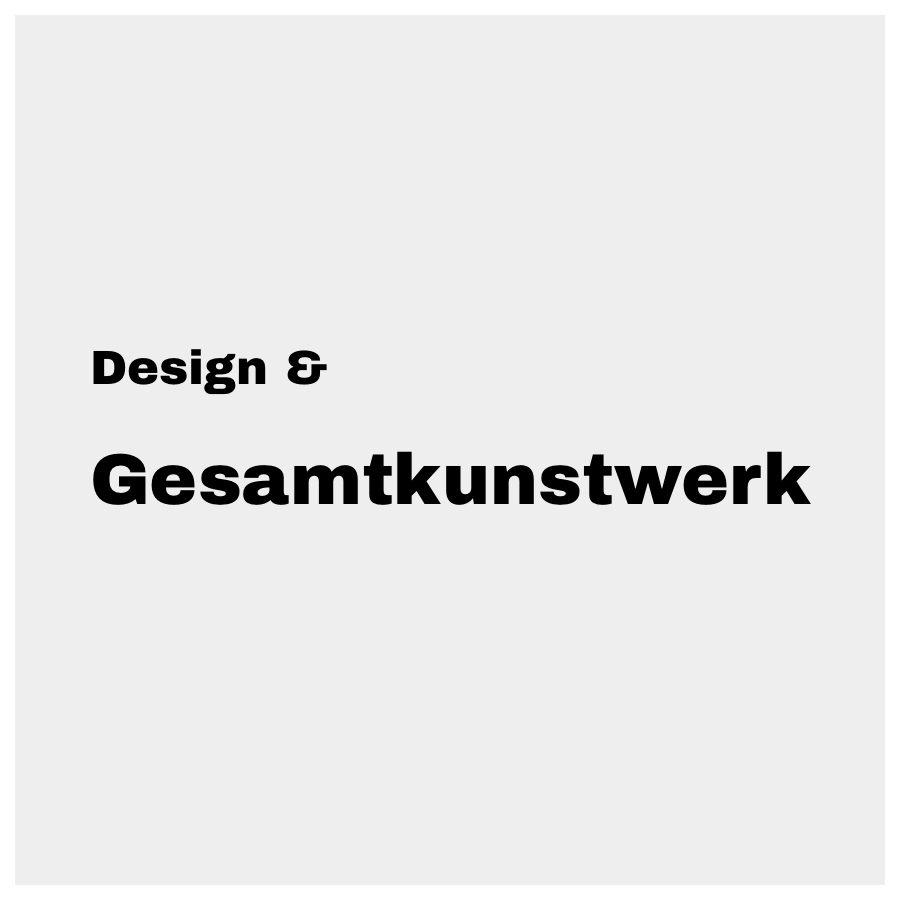
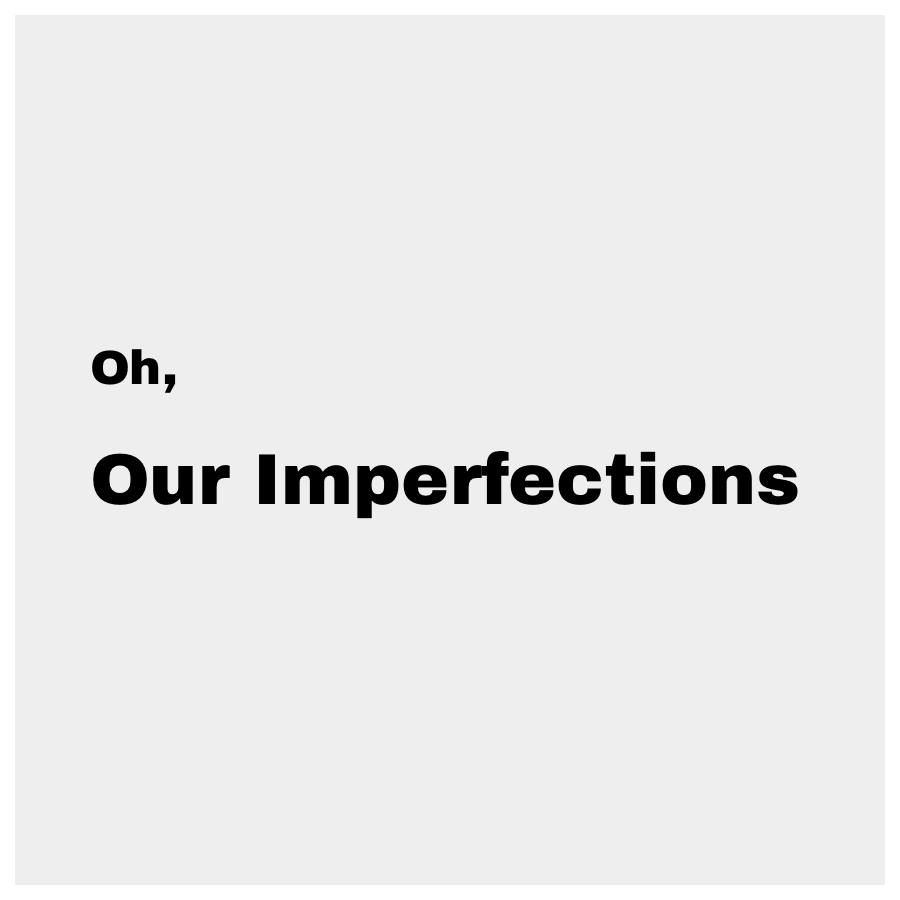
Updated the third blog page.

Changed region(s): [[0.1244, 0.4978, 0.9022, 0.5911], [0.0933, 0.3733, 0.3733, 0.4356]]

diff --git a/blog-ooi.html b/blog-ooi.html
@@ -1,0 +1,145 @@
+<!DOCTYPE html>
+<html lang="en">
+
+<head>
+    <meta charset="utf-8">
+    <meta http-equiv="X-UA-Compatible" content="IE=edge">
+    <meta name="viewport" content="width=device-width, initial-scale=1">
+    <!-- The above 3 meta tags *must* come first in the head; any other head content must come *after* these tags -->
+    <title>Blog | Ooi series</title>
+    <link rel="icon" href="img/fav.png" type="image/x-icon">
+
+    <!-- Bootstrap -->
+    <link href="css/bootstrap.min.css" rel="stylesheet">
+    <link href="ionicons/css/ionicons.min.css" rel="stylesheet">
+
+    <!-- main css -->
+    <link href="css/style.css" rel="stylesheet">
+
+    <!-- modernizr -->
+    <script src="js/modernizr.js"></script>
+
+
+</head>
+
+
+<body onload=pwprotect()>
+
+    <!-- Preloader -->
+    <div id="preloader">
+        <div class="pre-container">
+            <div class="spinner">
+                <div class="double-bounce1"></div>
+                <div class="double-bounce2"></div>
+            </div>
+        </div>
+    </div>
+    <!-- end Preloader -->
+
+    <div class="container-fluid">
+
+        <!-- box header -->
+        <header class="box-header">
+            <div class="box-logo">
+                <a href="index.html"><img src="img/icon-photo.png" width="100" alt="Logo"></a>
+            </div>
+        </header>
+        <!-- end box header -->
+    
+    </div>
+    
+    <!-- main-container -->
+
+    <div class="container no-padding main-container">  
+
+        <div class="col-lg-9 col-lg-offset-1 col-md-10 col-sm-11 col-xs-12">
+
+            <!-- top section  -->
+            <section>
+                <h2>Oh, our imperfections.</h2>
+                <h5>Pimples, tummy, wrinkles and farts. <br> What made us human made us special.</h5>
+            </section>
+
+            <!-- content section -->
+            <section>
+                <div class="row page-info">
+
+                    <div class="h-80"></div>
+
+                    <div class="col-lg-8 col-md-8 col-sm-12 col-xs-12">
+                        <div class="page-content">
+                            <p>There were multiple things that triggered something in me these few days. <br>
+                                1. I was listening to a podcast about how girls went through extreme diets and had to join fitness physique competitions to keep themselves on track. However, they were feeling miserable over the huge amount of cardio they needed to do; <br>
+                                2. A mutual friend in a group chat was bothered by people's comments about her strong and lean legs being "too big", and was trying to run if off by clocking extra KMs; <br>
+                                3. A video about girls chatting about their experiences with eating disorders and their state of mind now while recovering; <br>
+                                4. Another girl on a podcast mentioned her embarrassment to show any part of her body, tummy and legs, and worried about people judging her body "imperfections" as a coach;<br>
+                                5. Some old photos on my phone —></p>
+                        </div>
+                        <div class="h-30"></div>
+                    </div>
+                </div>            
+            </section>
+            
+           <!-- content sub section 1-->
+            <section>
+                <div class="row page-info">
+                    <div class="col-lg-8 col-md-8 col-sm-12 col-xs-12">
+                        <h4>Why do these matter? Why do these matter to me, you or anyone? </h4>
+                    </div>
+                    <div class="col-lg-8 col-md-8 col-sm-12 col-xs-12">
+                        <div class="page-content">
+                            <p>1. I've been through extreme diets before, just to lose another one or two extra pounds, or for the number on the weighing machine to look good / "optimal" / smaller. <br>
+                            2. While I used to be slightly underweight and slim, i still received comments about my legs being too strong, and i kept believing that, and kept trying to run more to burn my genes off. <br>
+                            3. The extreme diet in 1 & the over exercising in 2 resulted in emotional instability & binge eating disorder over couple of years. Without being too specific, my heaviest weight (2019) was 153% heavier than my slimmest (2011) (at around the current height, i think i grew 1cm taller over the past few years). My eating disorder remains unstable and on & off; and my weight now fluctuates slightly below the heaviest mark. <br>
+                            4. Over the years i started training in the gym, lifting, did couple of spartans races, long distance runs, started doing CrossFit, got a PT cert, wellness cert, CF level 1 cert, part timed as group trainer... My fitness routine remained active, various & regular; I am stronger (well, heavier too) than some of my guy friends, and i am proud of what my body is capable of after exercises. However. However. The 150% weight gain is not pure muscles. I have a rather noticeable bulge on my tummy that I constantly trying to hide. My thighs are thicker than usual. The fat layers on my back start to fight each other when i try to back bend or stretch... and those are the things my focus is on, most of the times. And i am, till this day, embarrassed to show my body with the fear of being judged by people, especially as a coach / fitness manic. <br>
+                            5. And i was browsing through some old photos on my phone. (initially with a brief thought of whether i should update one of the social media profile pic). And i stumbled upon a sudden realization.</p>
+                            <p>
+                                No its not a photo of the "chopstick" me in year 2011. Not a photo of the one-time noticeable abs nor a triumph with my lean body after races. <br>
+
+                                It was photos of my last summer's trip. A summer camp to the U.S. (I've graduated for 4 years now. This was a passion trip. Maybe I'll write about this in the future.) It was couple of photos of me being with my new friends there. <br>
+
+                                I think partially because it was a superb and remarkable experience that i would never forget about. While looking at the photos, I realized that there's a feeling of appreciation, joy and fulfillment in my heart that start to rise; there's also a tiny trace of bitterness that the happy time has past. I looked at my face in those photos, and i thought "hell i looked happy". <br>
+
+                                And so I stumbled upon this sudden realization, that truly, the "perfect weight/physique" doesn't exist; that i have been constantly pursuing something and being so obsessed with it that the mind and body go to the extremes. Yet no matter how small or "perfect" we think the weight should be, it does not, has never and will never bring us the level of joy as a fulfilling experience such as exchanging ideas with a bunch of smart friends, winning a small competition with like-minded & -bodied strong people, or completing an ultra trail, Spartan Trifecta, or an unprepared Marathon. <br>
+
+                                The pursuit and the obsession is meaningless. Judging people by the number on the scale, or even the number by their birth years, is also crude, ignorant and meaningless. Does a higher IQ makes someone a better person? Does one being younger, older, heavier, lighter has anything to do with one as a person? Those are just tags on our packaging. Does the number of grams on a chips package change the flavor or nutritional content of that chip? Guess not. We're smart enough to not judge a bag of chips by its packaging, and yet we're so held up on what's lying on the surface of ourselves. <br>
+
+                                Its the flavor that matters. The unique experiences, different perspectives, willingness of taking control of what one enjoys to do, and the courage to pursue what one loves. We feel the spark of joy from those moments in life, moments that trespasses weight, gender, age, and all the stereotypical tags this society put on us. And we should learn to not let the imperfections affect who we are and what brings us true happiness. Learn to love the imperfections. This is something I will, and hopefully you will too, practice more and more in our lives.<br>
+
+
+                            </p>
+                        </div>
+                        <div class="h-30"></div>
+                    </div>
+                </div>
+            </section>
+
+        </div>
+ 
+
+    </div>
+    <!-- end main-container -->
+
+
+    <!-- back to top -->
+    <a href="#0" class="cd-top"><i class="ion-android-arrow-up"></i></a>
+    <!-- end back to top -->
+
+
+
+
+    <!-- jQuery -->
+    <script src="js/jquery-2.1.1.js"></script>
+    <!--  plugins -->
+    <script src="js/bootstrap.min.js"></script>
+    <script src="js/menu.js"></script>
+    <script src="js/animated-headline.js"></script>
+    <script src="js/isotope.pkgd.min.js"></script>
+
+
+    <!--  custom script -->
+    <script src="js/custom.js"></script>
+
+</body>
+
+</html>

diff --git a/index.html b/index.html
@@ -6,7 +6,7 @@
     <meta http-equiv="X-UA-Compatible" content="IE=edge">
     <meta name="viewport" content="width=device-width, initial-scale=1">
     <!-- The above 3 meta tags *must* come first in the head; any other head content must come *after* these tags -->
-    <title>Yiping Xia</title>
+    <title>Eva Xia</title>
     <link rel="icon" href="img/fav.png" type="image/x-icon">
 
     <!-- Bootstrap -->
@@ -216,12 +216,12 @@
 
                 <!-- single work -->
                 <div class="col-md-4 col-sm-6">
-                    <a href="blog-designiseverything.html" class="portfolio_item">
+                    <a href="blog-ooi.html" class="portfolio_item">
                         <img src="img/portfolios/Blog3.png" alt="image" class="img-responsive" />
                         <div class="portfolio_item_hover">
                             <div class="portfolio-border clearfix">
                                 <div class="item_info">
-                                    <span>DESIGN IS series<br></span>
+                                    <span>Ooi series<br></span>
                                     <em>Read</em>
                                 </div>
                             </div>
